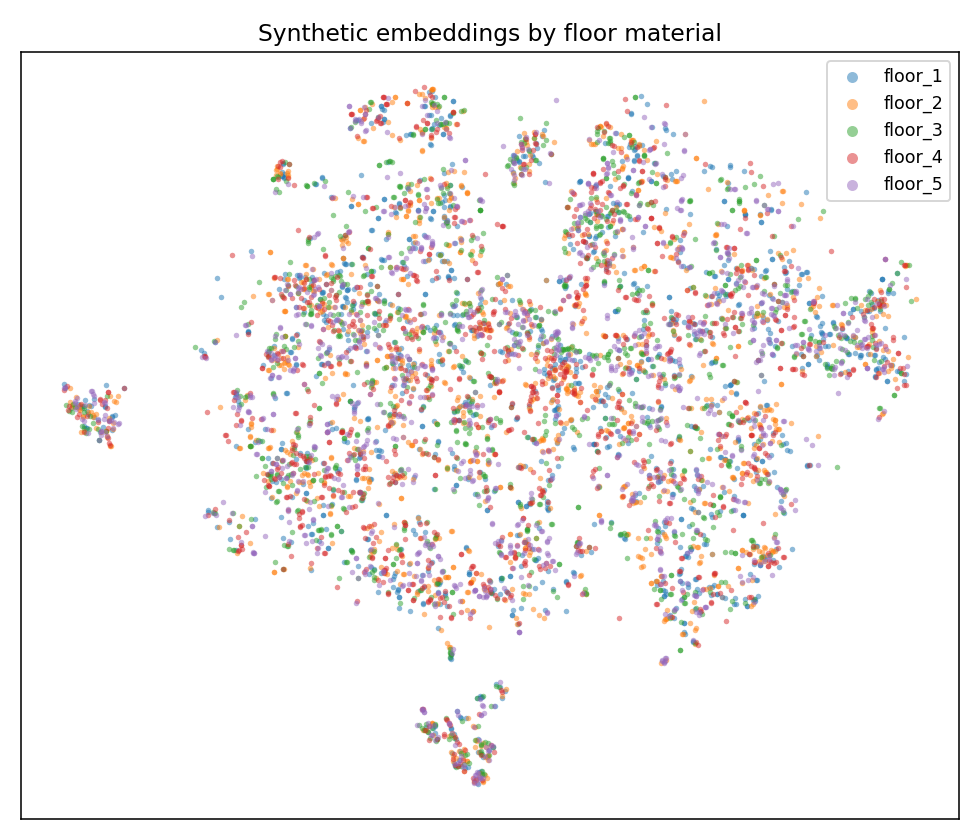
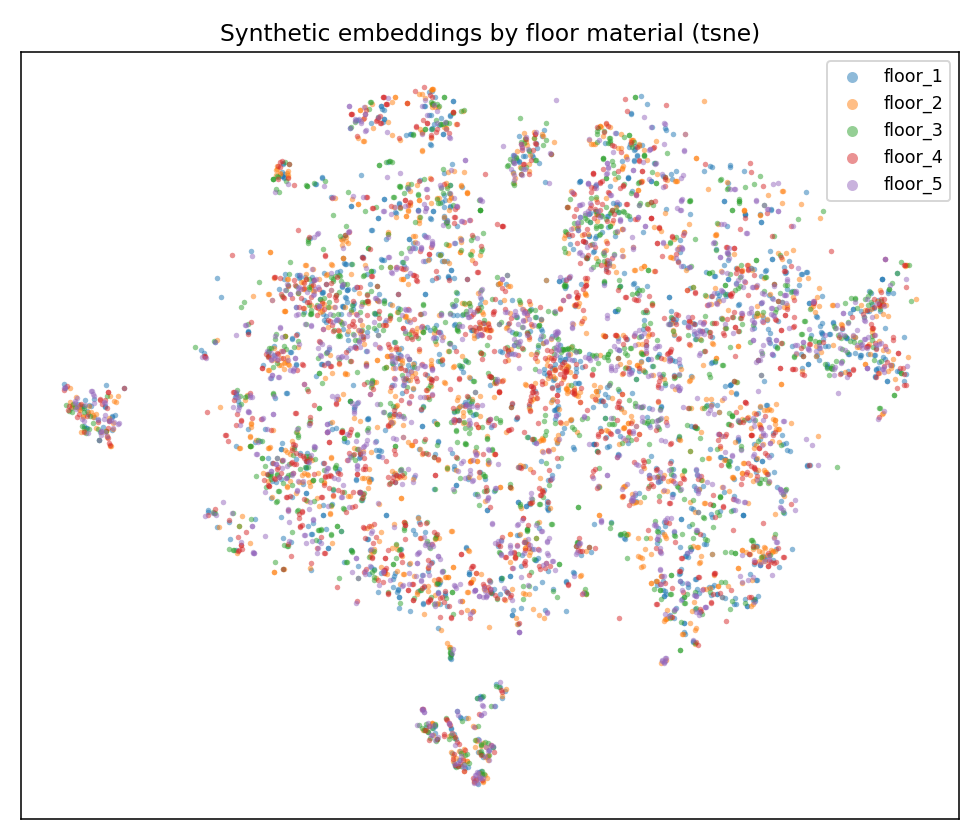
Add UMAP projection to the DINOv3 embedding analysis
scripts/analyze_synth_dino.py: _proj() now also computes a UMAP-2D embedding
(n_neighbors=15, min_dist=0.1, cosine on the L2-normed vectors), and
make_figures() emits UMAP versions of the domain and synth angle/floor plots.

README: show all three projections inline -- domain plot as t-SNE | PCA | UMAP,
synth substructure as t-SNE + UMAP (no PCA: PCA-2D doesn't resolve the angle
gradient). PCA separates the domains most cleanly; t-SNE/UMAP interleave them
(identity-dominates-local-structure). Adds umap-learn to the §7 deps.

Figures regenerated (job 7343679); all metrics reproduced. Needs umap-learn
in .venv-dino.

Changed region(s): [[0.2143, 0.031, 0.7653, 0.0619]]

diff --git a/scripts/analyze_synth_dino.py b/scripts/analyze_synth_dino.py
@@ -11,7 +11,7 @@ Questions:
 
 Inputs (in --dir): synth_dino_dinov3_vitl16_aspect512.npz, synth_dino_records.json,
                    real_dino_vitl16_aspect512.npz
-Outputs (in --dir/analysis): summary.json + PNG figures.
+Outputs (in --dir/analysis): summary.json + PNG figures (PCA / t-SNE / UMAP).
 All features L2-normalized (cosine geometry) -- model-intrinsic, no train-fit PCAw.
 """
 import argparse
@@ -199,12 +199,16 @@ def main():
 
 
 def _proj(Xsample, seed=SEED):
-    """PCA-50 -> t-SNE-2D (standard); returns (pca2d, tsne2d)."""
+    """PCA-50 -> t-SNE-2D (standard), PCA-2D, and UMAP-2D (cosine, on the L2-normed
+    vectors). Returns (pca2d, tsne2d, umap2d)."""
+    import umap
     p50 = PCA(n_components=min(50, Xsample.shape[1]), random_state=seed).fit_transform(Xsample)
     tsne = TSNE(n_components=2, init="pca", perplexity=30, random_state=seed,
                 max_iter=1000).fit_transform(p50)
     pca2 = PCA(n_components=2, random_state=seed).fit_transform(Xsample)
-    return pca2, tsne
+    umap2 = umap.UMAP(n_components=2, n_neighbors=15, min_dist=0.1, metric="cosine",
+                      random_state=seed).fit_transform(Xsample)
+    return pca2, tsne, umap2
 
 
 def make_figures(outdir, synth, angle_idx, floor_idx, studio, pq, angles, floors, per_view, comp):
@@ -234,11 +238,11 @@ def make_figures(outdir, synth, angle_idx, floor_idx, studio, pq, angles, floors
     Xst = studio[st_idx]
     Xcomb = np.concatenate([Xst, Xsyn, pq], 0)
     dom = np.concatenate([np.zeros(len(Xst)), np.ones(len(Xsyn)), np.full(len(pq), 2)]).astype(int)
-    print(f"projecting {len(Xcomb)} points (PCA->t-SNE)...", flush=True)
-    pca2, tsne = _proj(Xcomb)
+    print(f"projecting {len(Xcomb)} points (PCA, t-SNE, UMAP)...", flush=True)
+    pca2, tsne, umap2 = _proj(Xcomb)
 
-    # (1) domain, both projections
-    for proj, tag in [(tsne, "tsne"), (pca2, "pca")]:
+    # (1) domain, all three projections
+    for proj, tag in [(tsne, "tsne"), (pca2, "pca"), (umap2, "umap")]:
         fig, ax = plt.subplots(figsize=(7, 6))
         for d, lab, c, mk, al in [(0, "studio (catalog)", "#1f77b4", "o", .5),
                                   (1, "synthetic (renders)", "#ff7f0e", ".", .35),
@@ -251,19 +255,21 @@ def make_figures(outdir, synth, angle_idx, floor_idx, studio, pq, angles, floors
         fig.tight_layout(); fig.savefig(os.path.join(outdir, f"proj_domain_{tag}.png"), dpi=140)
         plt.close(fig)
 
-    # (2) synthetic colored by angle, and by floor (t-SNE)
+    # (2) synthetic colored by angle, and by floor (t-SNE + UMAP)
     syn_mask = dom == 1
-    syn_proj = tsne[syn_mask]
-    for labels, names, fname, title in [
-        (a_s, angles, "proj_synth_angle_tsne.png", "Synthetic embeddings by camera angle"),
-        (f_s, floors, "proj_synth_floor_tsne.png", "Synthetic embeddings by floor material")]:
-        fig, ax = plt.subplots(figsize=(7, 6))
-        cmap = plt.get_cmap("tab10")
-        for i, nm in enumerate(names):
-            mm = labels == i
-            ax.scatter(syn_proj[mm, 0], syn_proj[mm, 1], s=8, color=cmap(i), alpha=.5, label=nm, linewidths=0)
-        ax.set_title(title); ax.legend(markerscale=2, fontsize=9); ax.set_xticks([]); ax.set_yticks([])
-        fig.tight_layout(); fig.savefig(os.path.join(outdir, fname), dpi=140); plt.close(fig)
+    for proj, ptag in [(tsne, "tsne"), (umap2, "umap")]:
+        syn_proj = proj[syn_mask]
+        for labels, names, fname, title in [
+            (a_s, angles, f"proj_synth_angle_{ptag}.png", "Synthetic embeddings by camera angle"),
+            (f_s, floors, f"proj_synth_floor_{ptag}.png", "Synthetic embeddings by floor material")]:
+            fig, ax = plt.subplots(figsize=(7, 6))
+            cmap = plt.get_cmap("tab10")
+            for i, nm in enumerate(names):
+                mm = labels == i
+                ax.scatter(syn_proj[mm, 0], syn_proj[mm, 1], s=8, color=cmap(i), alpha=.5, label=nm, linewidths=0)
+            ax.set_title(f"{title} ({ptag})"); ax.legend(markerscale=2, fontsize=9)
+            ax.set_xticks([]); ax.set_yticks([])
+            fig.tight_layout(); fig.savefig(os.path.join(outdir, fname), dpi=140); plt.close(fig)
 
     # (3) per-view cosine-to-studio vs EXP-3 R@1
     order = sorted(angles, key=lambda a: per_view[a]["mean_cos_to_studio"], reverse=True)

diff --git a/experiments/dinov3-embedding-analysis/README.md b/experiments/dinov3-embedding-analysis/README.md
@@ -26,8 +26,8 @@ We compare three sets of images:
 >   off the vectors; a value far above *chance* means the model encodes that property strongly.
 > - **Silhouette** (−1 to 1) — how "clustered" groups are: ≈1 tight, well-separated blobs; ≈0 no real
 >   clustering (one connected cloud); below 0 the groups overlap.
-> - **t-SNE / PCA plots** — ways to squash the 1024-number vectors down to a 2-D map so we can eyeball
->   them; nearby dots ≈ similar images.
+> - **t-SNE / PCA / UMAP plots** — three ways to squash the 1024-number vectors down to a 2-D map so we
+>   can eyeball them; nearby dots ≈ similar images.
 >
 > (This study uses the similarity metrics above, not the recognition metrics — **GAP**, **GAP⁻**, **ACC**,
 > **R@1** — which are defined in the [experiments README](../README.md); only **R@1** reappears here, in §4.)
@@ -103,11 +103,15 @@ vector space — but its silhouette ≈ 0, meaning it's a smooth gradient layere
 but that's a property of the *painting itself*, not a random setting.)
 
 The 2-D maps show the same thing — soft angle structure (watch the broken `right upper` view break away),
-and floor texture scattered at random:
+and floor texture scattered at random. **t-SNE** (top) and **UMAP** (bottom) tell the same story:
 
-| coloured by camera angle | coloured by floor texture |
-|---|---|
-| ![2-D map by angle](figures/proj_synth_angle_tsne.png) | ![2-D map by floor](figures/proj_synth_floor_tsne.png) |
+| | coloured by camera angle | coloured by floor texture |
+|---|---|---|
+| **t-SNE** | ![angle, t-SNE](figures/proj_synth_angle_tsne.png) | ![floor, t-SNE](figures/proj_synth_floor_tsne.png) |
+| **UMAP** | ![angle, UMAP](figures/proj_synth_angle_umap.png) | ![floor, UMAP](figures/proj_synth_floor_umap.png) |
+
+*(No PCA panel here: a linear PCA-2D doesn't resolve the angle gradient that t-SNE/UMAP pick up — the
+0.99 linear-probe above is the quantitative proof that angle is encoded.)*
 
 ---
 
@@ -125,9 +129,16 @@ can tell them apart.
 
 *Accuracy near 1.0 = the groups barely overlap — they're clearly distinct regions of the space.*
 
-![The three image groups in 2-D](figures/proj_domain_tsne.png)
+The same three image sets, in all three 2-D projections (click any to enlarge):
 
-*(Same plot with PCA instead of t-SNE: [`figures/proj_domain_pca.png`](figures/proj_domain_pca.png).)*
+| t-SNE | PCA | UMAP |
+|---|---|---|
+| ![domain, t-SNE](figures/proj_domain_tsne.png) | ![domain, PCA](figures/proj_domain_pca.png) | ![domain, UMAP](figures/proj_domain_umap.png) |
+
+*The linear **PCA** view separates studio / synthetic / real most cleanly; **t-SNE** and **UMAP** mix them
+more, because they preserve *local* neighbourhoods — and locally a render sits next to its same-painting
+studio/real counterparts (the identity-dominates effect from §2). The 0.97–0.99 classifier scores above,
+not any single 2-D map, are the evidence the domains are distinct.*
 
 The more interesting question is **which gap is bigger** — synthetic-to-real, or studio-to-real? We measure
 the distance between the *average* vector of each group:
@@ -203,7 +214,7 @@ on standing out from *other* paintings, not just resembling your own — and EXP
 
 ## 7. How to reproduce
 
-Run in `.venv-dino` (DINOv3 + `transformers`; the analysis also needs `scikit-learn` + `matplotlib`).
+Run in `.venv-dino` (DINOv3 + `transformers`; the analysis also needs `scikit-learn`, `umap-learn` + `matplotlib`).
 
 ```bash
 # 1) compute DINOv3 ViT-L vectors for the 24,760 renders (GPU, ~2 min on an H100)